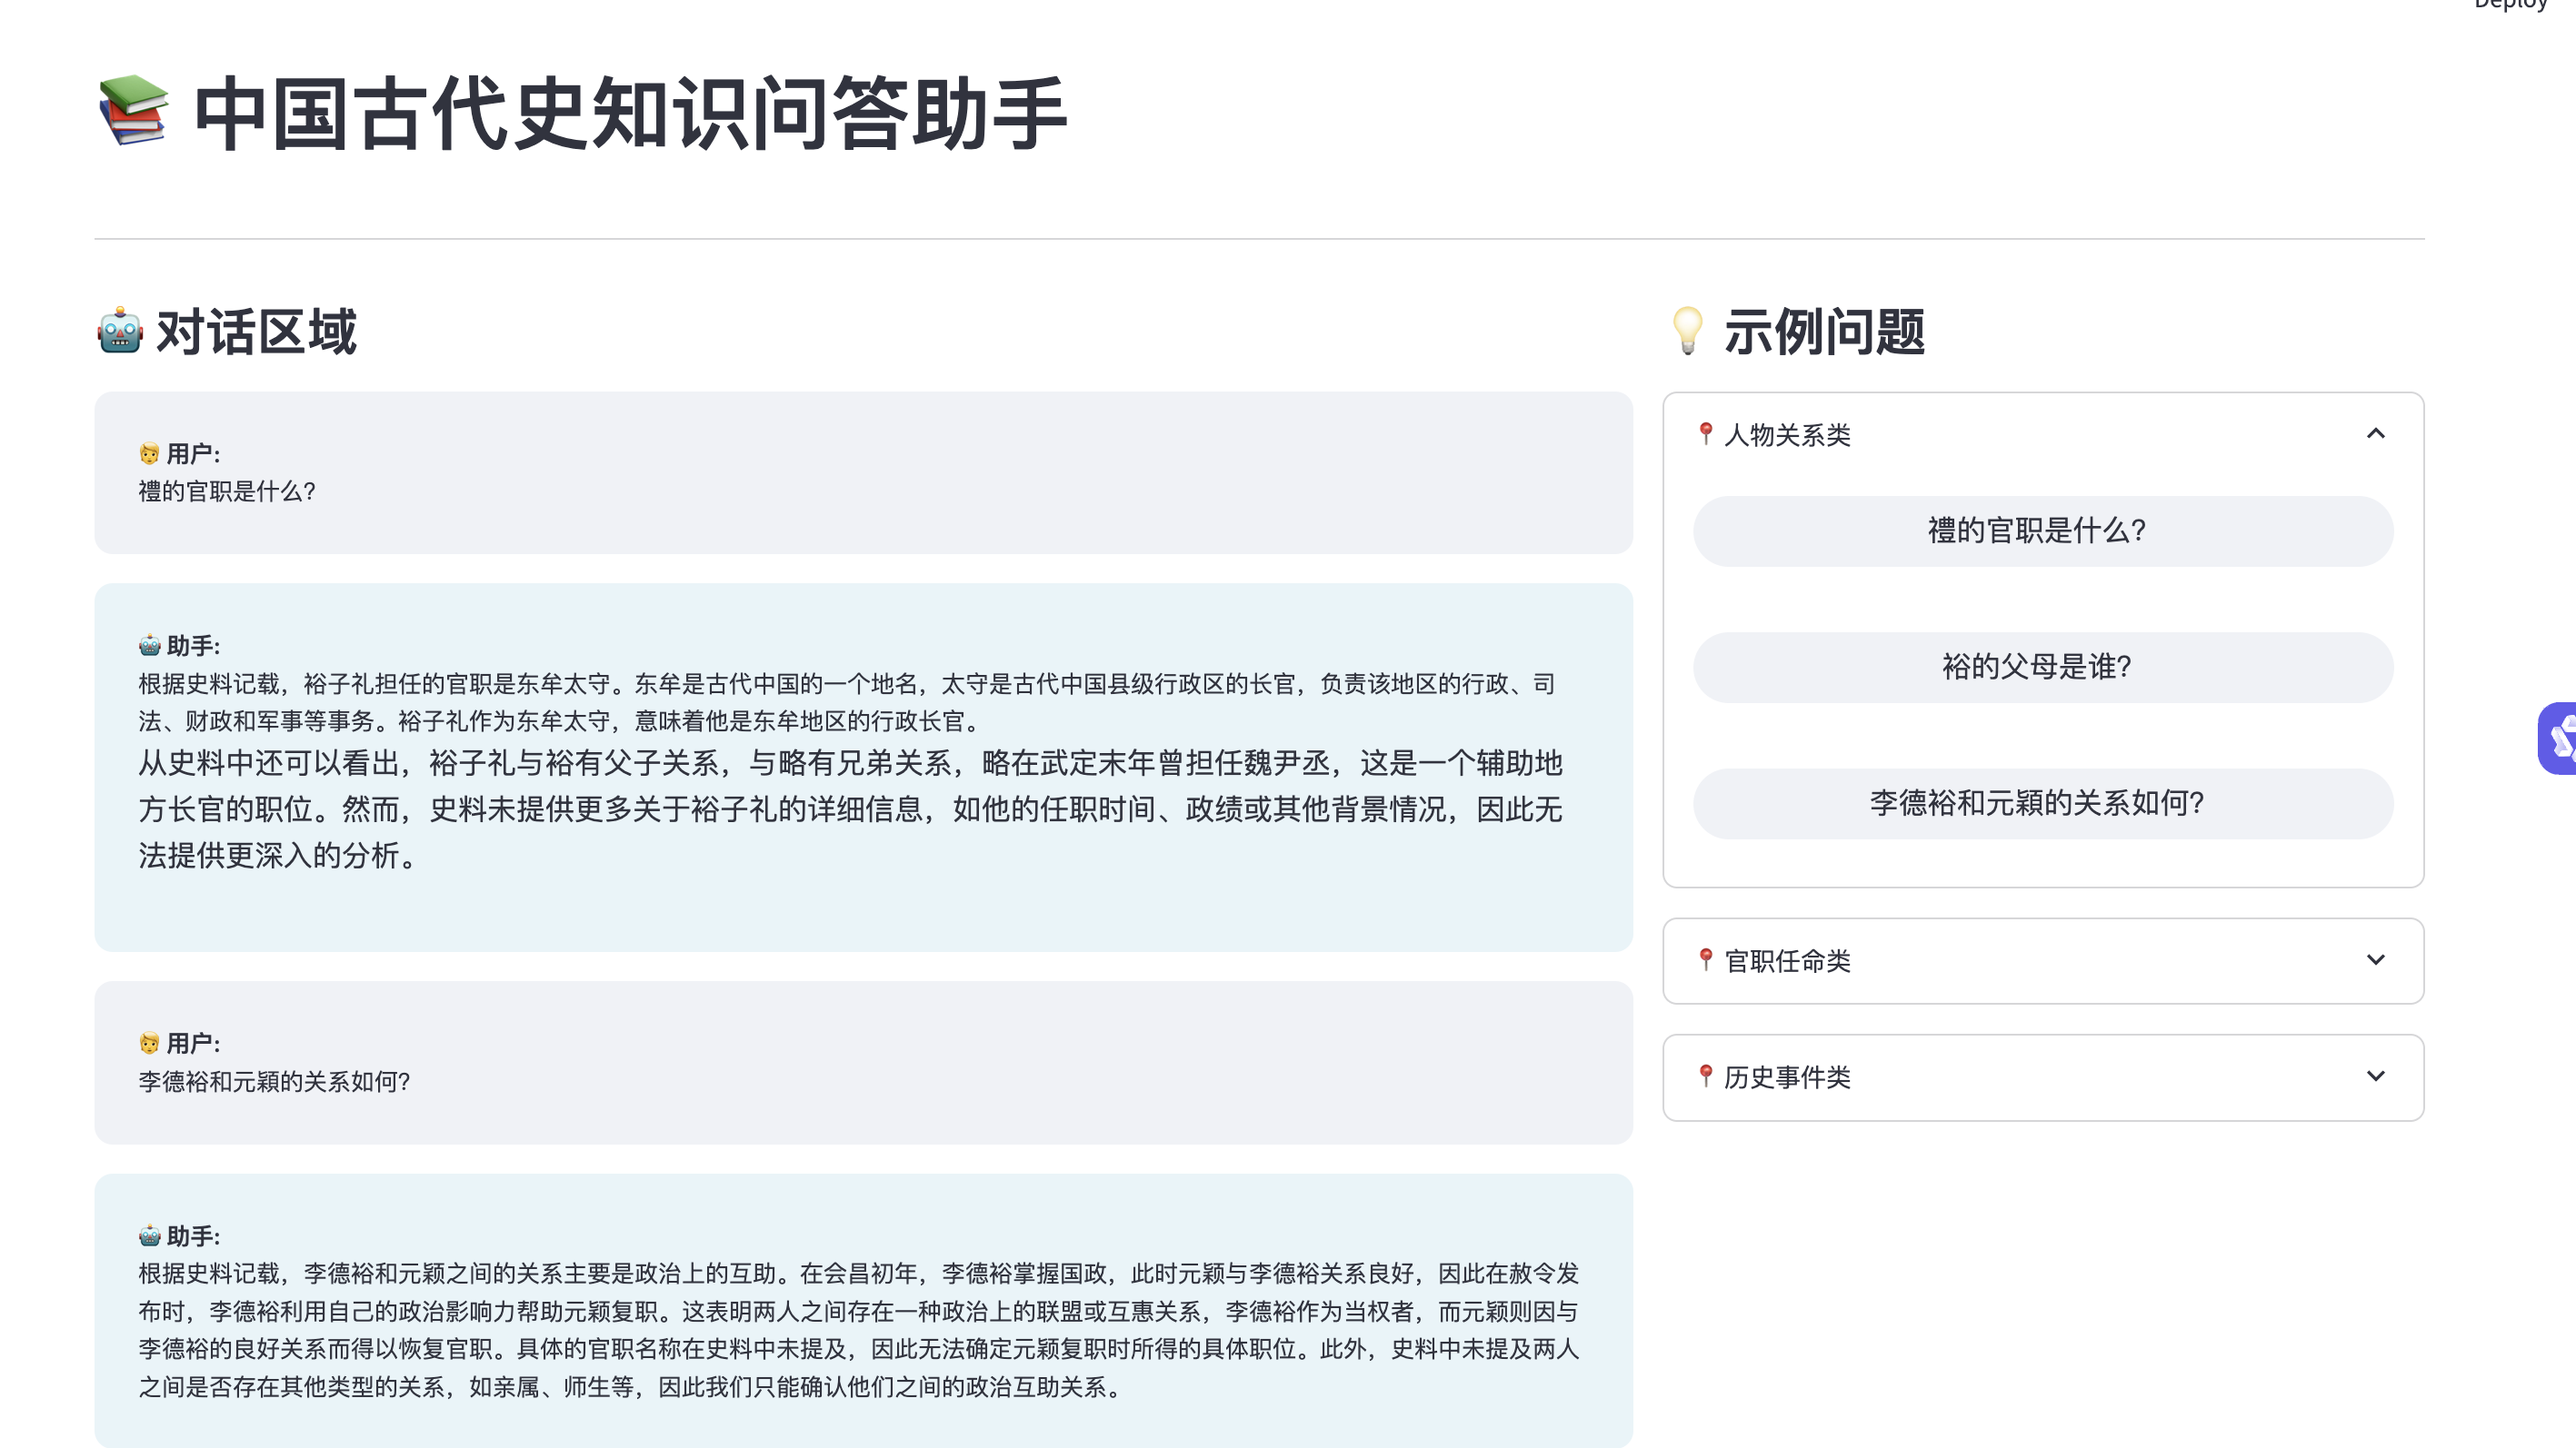
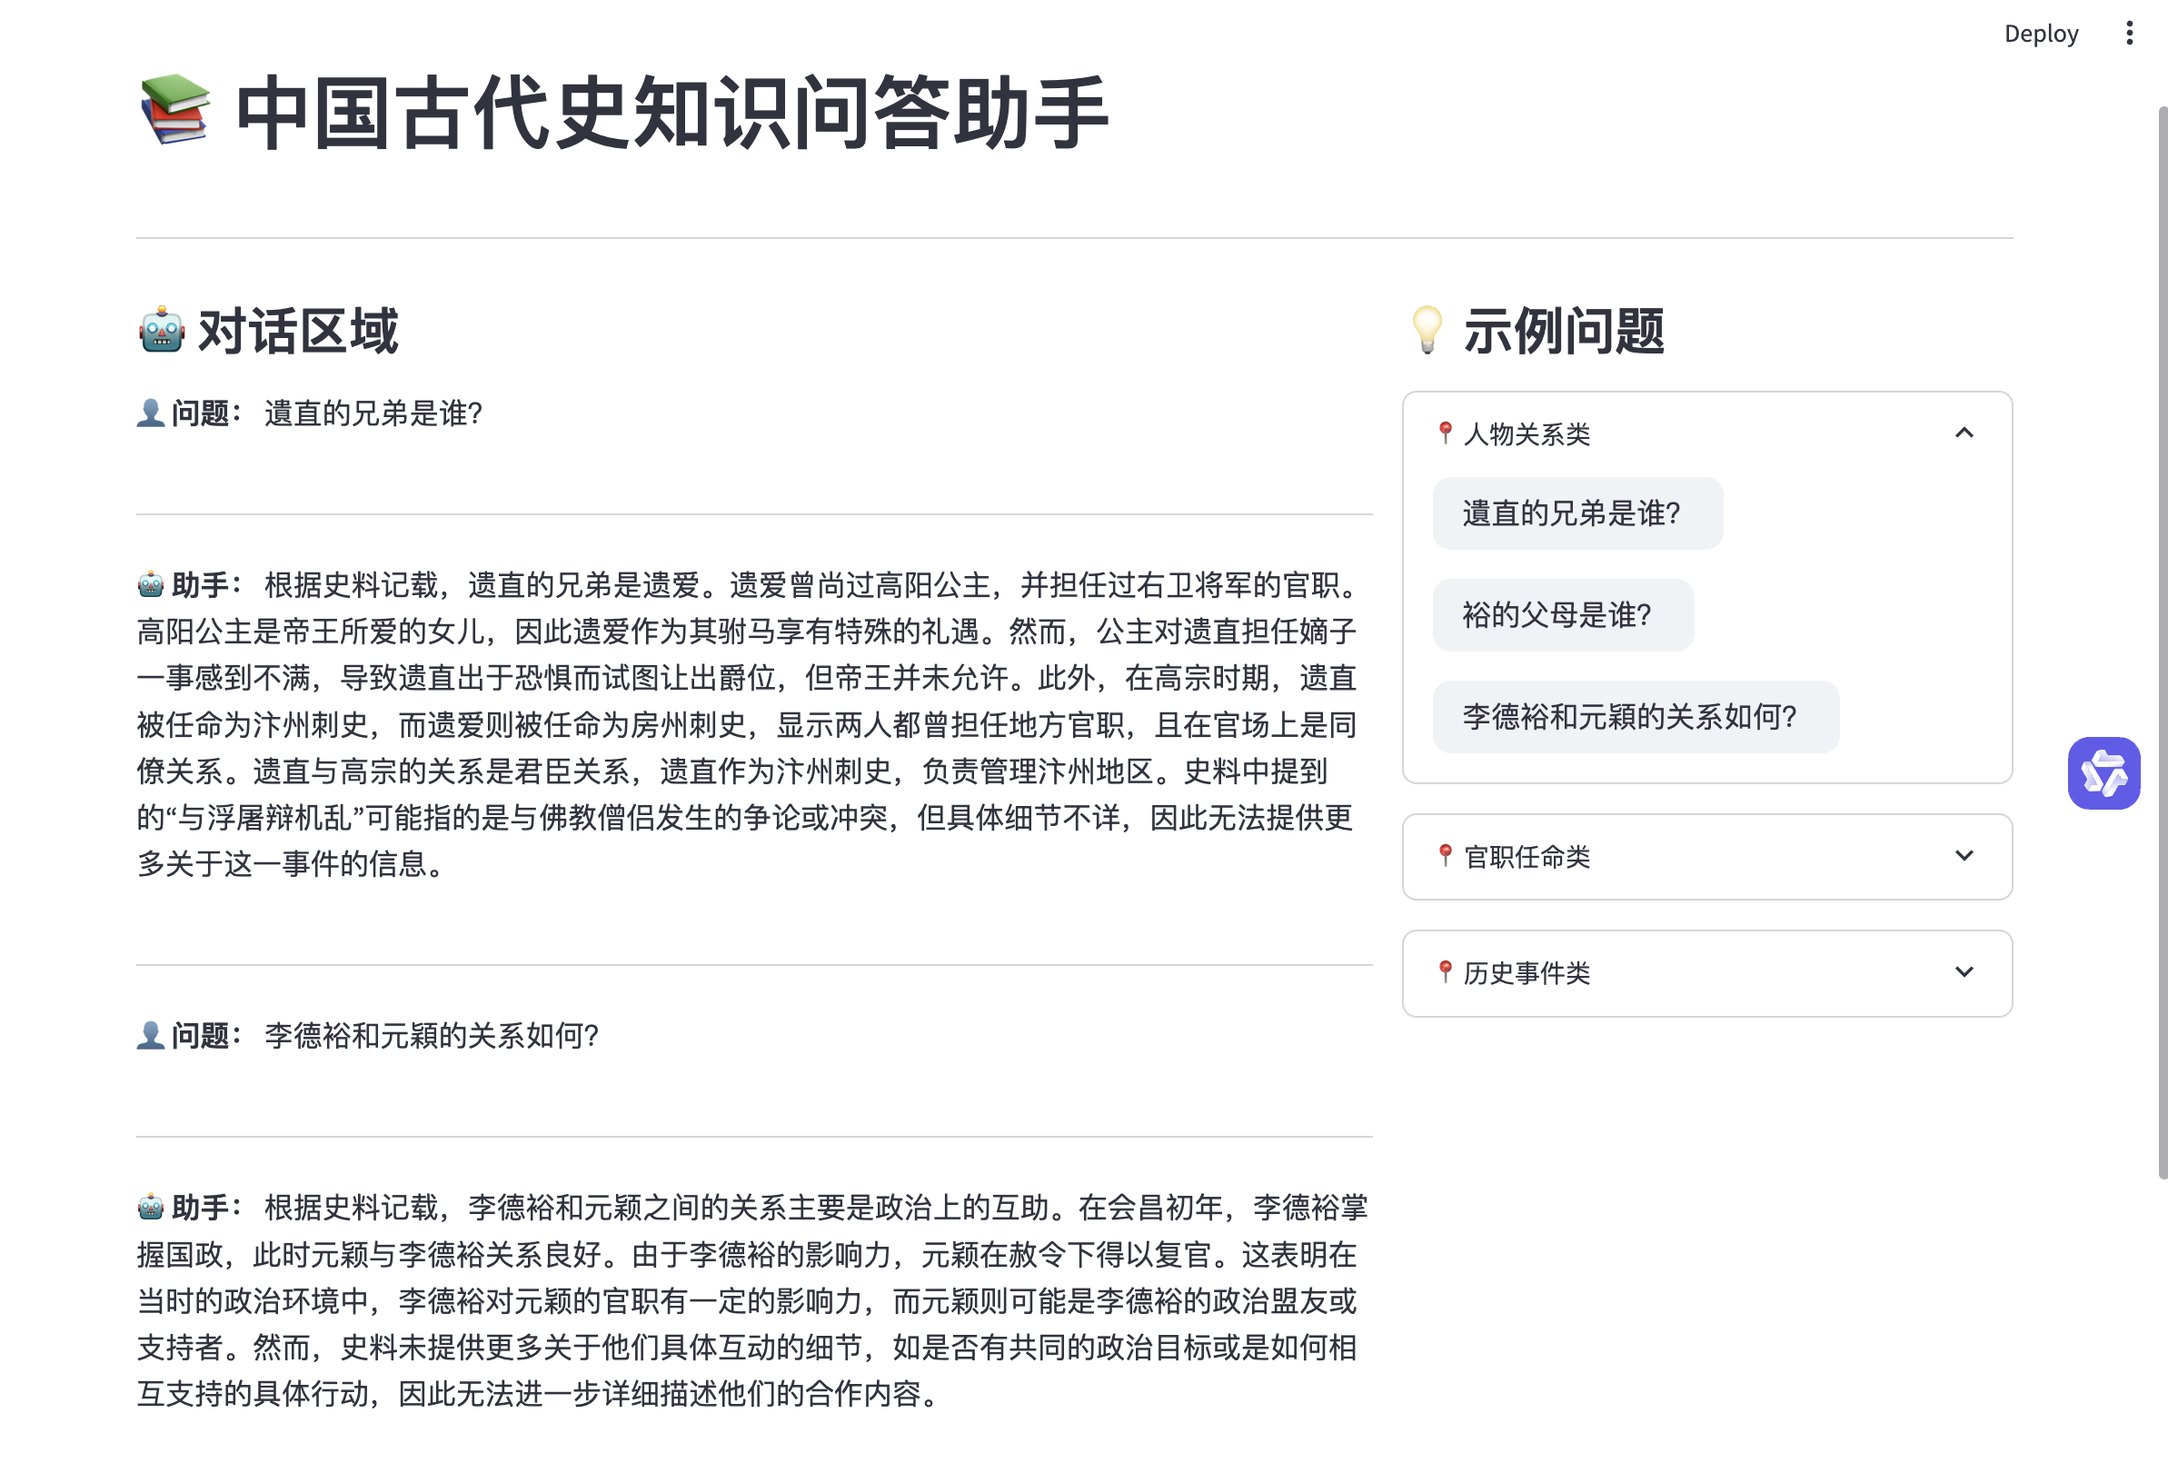
modified app_1.png

diff --git a/app.py b/app.py
@@ -139,7 +139,7 @@ st.markdown("""
 # 示例问题
 SAMPLE_QUESTIONS = {
     "人物关系类": [
-        "禮的官职是什么？",
+        "遺直的兄弟是谁？",
         "裕的父母是谁？",
         "李德裕和元穎的关系如何？"
     ],
